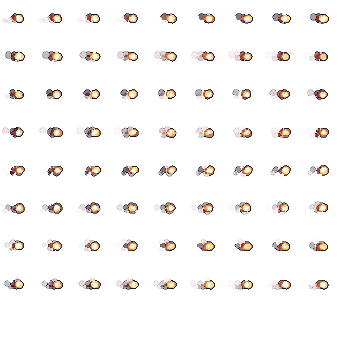
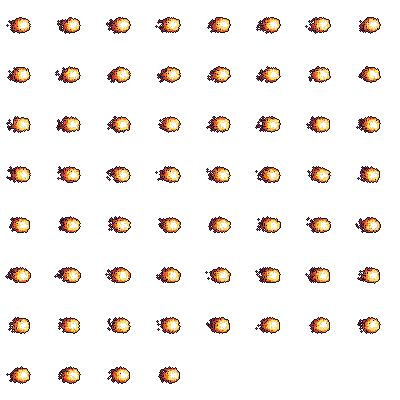
updated effects per element type, wind WIP

diff --git a/Abyss/Master/Load.cs b/Abyss/Master/Load.cs
@@ -17,6 +17,8 @@ namespace Abyss.Master
             _Sprites.TestBox = new SpriteSheet(Content.Load<Texture2D>("testbox"), 16, 16, 16, 16, 0);
 
             Texture2D burst_texture = Content.Load<Texture2D>("particles/burst");
+            Texture2D explosion_hit_texture = Content.Load<Texture2D>("particles/explosion_hit");
+            Texture2D wind_hit_texture = Content.Load<Texture2D>("particles/wind_hit");
 
             Texture2D base_spell_texture = Content.Load<Texture2D>("spells/spell");
             Texture2D fire_spell_texture = Content.Load<Texture2D>("spells/fire");
@@ -27,14 +29,16 @@ namespace Abyss.Master
             //Texture2D boil_spell_texture = Content.Load<Texture2D>("spells/boil");
             //Texture2D steam_spell_texture = Content.Load<Texture2D>("spells/steam");
 
-            _Sprites.BaseSpell = new AnimatedSprite(base_spell_texture, 30, 30, 45, 4);
-            _Sprites.FireSpell = new AnimatedSprite(fire_spell_texture, 40, 40, 72, 5);
-            _Sprites.FireBurstSpell = new AnimatedSprite(fire_burst_spell_texture, 37, 37, 72, 5);
+            _Sprites.BaseSpell = new AnimatedSprite(base_spell_texture, 30, 30, 40, 4);
+            _Sprites.FireSpell = new AnimatedSprite(fire_spell_texture, 50, 50, 60, 5);
+            _Sprites.FireBurstSpell = new AnimatedSprite(fire_burst_spell_texture, 50, 50, 60, 5);
             _Sprites.WaterSpell = new AnimatedSprite(water_spell_texture, 25, 25, 62, 9);
             _Sprites.WindSpell = new AnimatedSprite(wind_spell_texture, 50, 50, 20, 10);
             _Sprites.WindDashSpell = new AnimatedSprite(wind_dash_spell_texture, 80, 80, 81, 40);
 
             _Sprites.BurstEffect = new AnimatedSprite(burst_texture, 25, 25, 20, 8);
+            _Sprites.ExplosionEffect = new AnimatedSprite(explosion_hit_texture, 50, 50, 20, 8);
+            _Sprites.WindHitEffect = new AnimatedSprite(wind_hit_texture, 50, 50, 42, 8);
 
 
             // entity textures

diff --git a/Abyss/Magic/Effect.cs b/Abyss/Magic/Effect.cs
@@ -9,13 +9,15 @@ namespace Abyss.Magic
         public Vector2 position;
         public AnimatedSprite sprite;
         private protected double lifetime;
+        public double rotation;
 
 
-        public Effect(Vector2 position, AnimatedSprite sprite, double lifetime)
+        public Effect(Vector2 position, AnimatedSprite sprite, double lifetime, double rotation = 0)
         {
             this.position = position;
             this.sprite = sprite;
             this.lifetime = lifetime;
+            this.rotation = rotation;
         }
 
         public void Update(double delta)
@@ -29,9 +31,26 @@ namespace Abyss.Magic
             return lifetime <= 0;
         }
 
-        public static void BurstEffect(Vector2 position, GameState game_state)
+        public static void HitEffect(Vector2 position, double rotation, Element element, GameState game_state)
         {
-            game_state.particle_fx.Add(new Effect(position, _Sprites.BurstEffect.Clone(), 0.28));
+            switch (element)
+            {
+                case Element.fire:
+                    {
+                        game_state.particle_fx.Add(new Effect(position, _Sprites.ExplosionEffect.Clone(), 0.2, rotation));
+                        break;
+                    }
+                case Element.wind:
+                    {
+                        game_state.particle_fx.Add(new Effect(position, _Sprites.WindHitEffect.Clone(), 0.42, -rotation));
+                        break;
+                    }
+                default:
+                    {
+                        game_state.particle_fx.Add(new Effect(position, _Sprites.BurstEffect.Clone(), 0.28));
+                        break;
+                    }
+            }
         }
     }
 }

diff --git a/Abyss/Magic/Grimoire.cs b/Abyss/Magic/Grimoire.cs
@@ -26,8 +26,8 @@ namespace Abyss.Magic
 
         public Grimoire()
         {
-            primary = new ParticleController(Element.NULL, 0.5, 1, 5, 1, 0.25, 0.1, 2);
-            secondary = new ParticleController(Element.NULL, 0.4, 1, 5, 5, 0.25, 0.3, 2);
+            primary = new ParticleController(Element.NULL, 0.5, 1, 5, 1, 0.25, 0.1);
+            secondary = new ParticleController(Element.NULL, 0.4, 1, 5, 5, 0.25, 0.3);
 
             sprite = _Sprites.BaseSpell;
             sprite_2 = sprite;
@@ -176,7 +176,7 @@ namespace Abyss.Magic
                 Tile tile = game_state.GetCollisionLayer().GetTiles()[tile_pos.y, tile_pos.x];
                 if (particle.IsColliding(tile) && !tile.NULL && !particle.ignore_collision)
                 {
-                    Effect.BurstEffect(particle.position, game_state);
+                    Effect.HitEffect(particle.position, particle.rotation, particle.element, game_state);
                     _particles.Add(particle);
                     break;
                 }

diff --git a/Abyss/Master/GameState.cs b/Abyss/Master/GameState.cs
@@ -95,7 +95,7 @@ namespace Abyss.Master
                     Particle damager = player.inventory.grimoires[i].Hits(enemy);
                     if (damager != null)
                     {
-                        Effect.BurstEffect(Math0.ClosestPosition(enemy.GetPosition(), enemy.GetSize(), damager.position), this);
+                        Effect.HitEffect(Math0.ClosestPosition(enemy.GetPosition(), enemy.GetSize(), damager.position), damager.rotation, damager.element, this);
                         enemy.ReduceHealth(damager.GetDamage());
                     }
                 }

diff --git a/Abyss/Magic/Grimoires/Fire.cs b/Abyss/Magic/Grimoires/Fire.cs
@@ -11,7 +11,7 @@ namespace Abyss.Magic.Grimoires
         public Fire() : base()
         {
             primary = new ParticleController(Element.fire, 0.7, 0.1, 1.5, 0.5, 0.1, 0.05, 3, true);
-            secondary = new ParticleController(Element.fire, 0.3, 5, 2, 10, 0.3, 0.25, 4, true);
+            secondary = new ParticleController(Element.fire, 0.3, 5, 2, 10, 0.3, 0.25, 9, true);
 
             sprite = _Sprites.FireSpell;
             sprite_2 = _Sprites.FireBurstSpell;

diff --git a/Abyss/Draw/Extensions.cs b/Abyss/Draw/Extensions.cs
@@ -64,7 +64,7 @@ namespace Abyss.Draw
         /// <param name="fx"></param>
         public void Draw(Effect fx)
         {
-            this.Draw(fx.sprite, fx.position, Color.White, 0, 1, true);
+            this.Draw(fx.sprite, fx.position, Color.White, fx.rotation, 1, true);
         }
     }
 }

diff --git a/Abyss/Globals/_Sprites.cs b/Abyss/Globals/_Sprites.cs
@@ -25,6 +25,8 @@ namespace Abyss.Globals
 
         // particle effects
         public static AnimatedSprite BurstEffect;
+        public static AnimatedSprite ExplosionEffect;
+        public static AnimatedSprite WindHitEffect;
 
 
         // players
